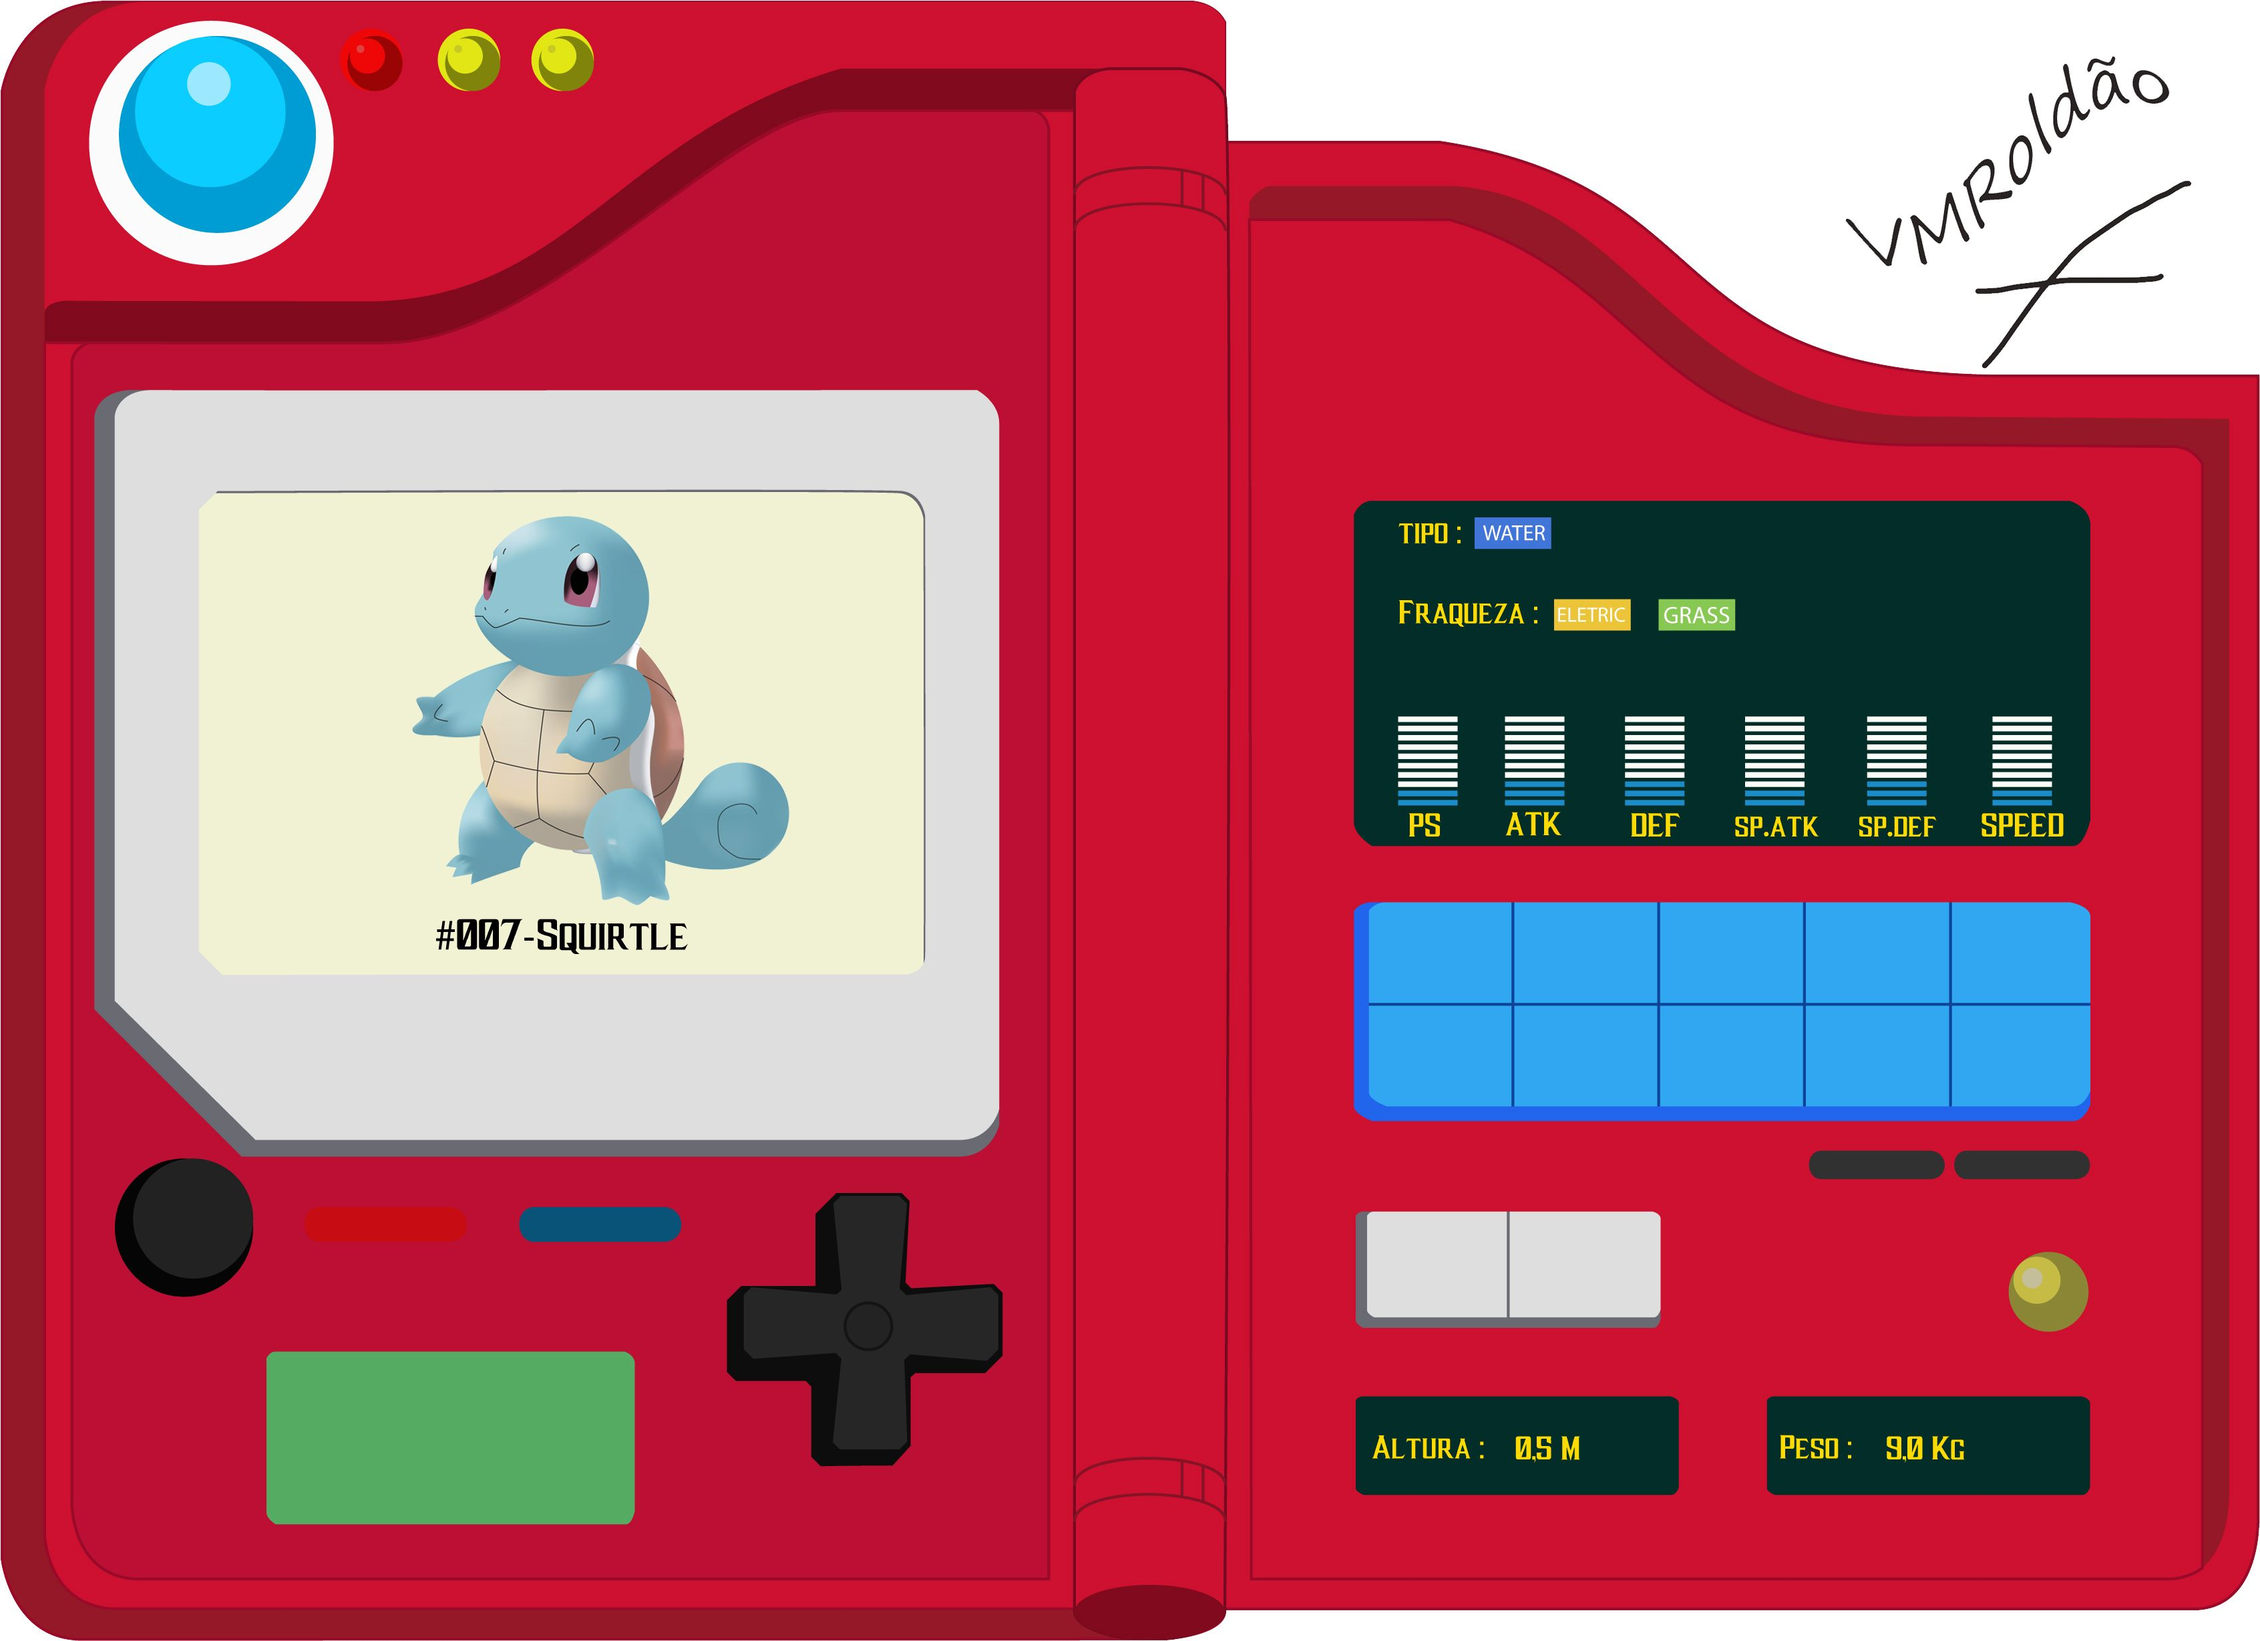
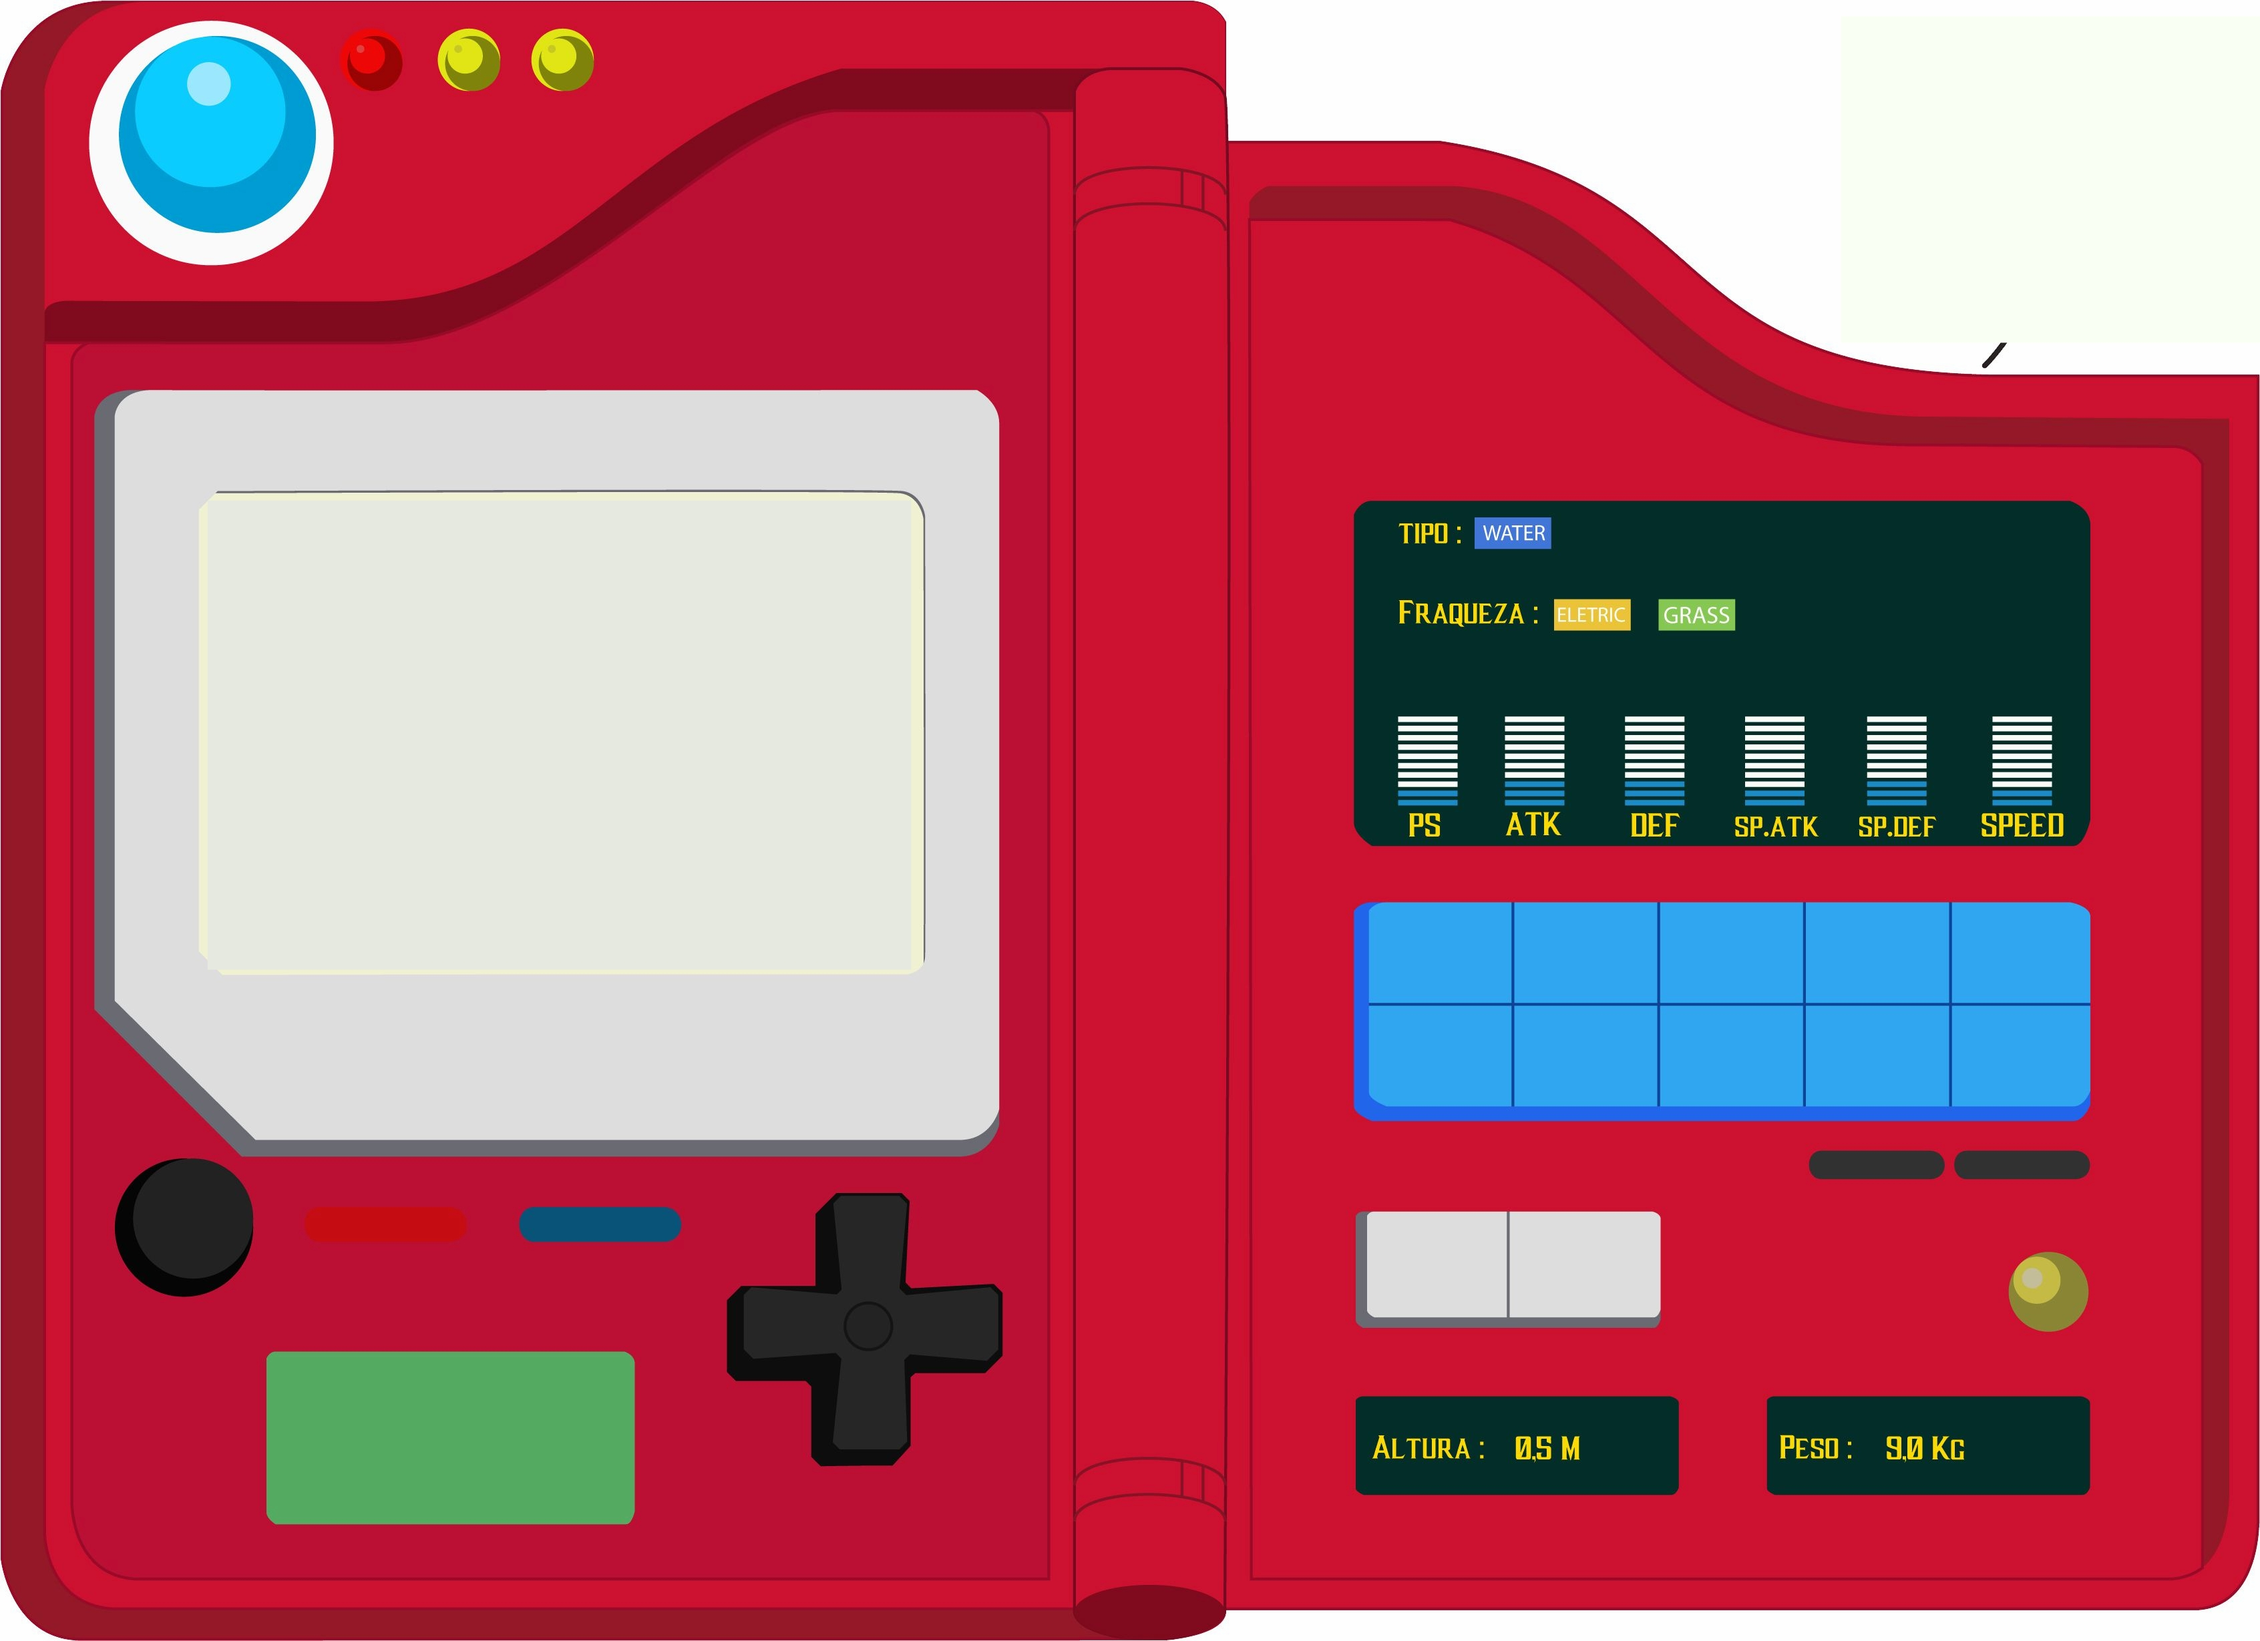
modificacion: ajustes en js y css add: etiquetas para tipo, nombre, id

diff --git a/assets/css/estilospokedex.css b/assets/css/estilospokedex.css
@@ -1,11 +1,87 @@
+.contenedor-pokedex {
+  display: flex;
+  justify-content: center;
+  align-items: center;
+}
+.pokedex img {
+  width: 50%;
+}
+
 .column {
   display: flex;
   flex-direction: column;
   justify-content: center;
-  align-items: center;
-  width: 500px;
-  height: 300px;
+  width: 30%;
 }
 #pokeImg {
-  width: 200px;
+  position: relative;
+  right: 42vw;
+  bottom: 15vw;
+  width: 11vw;
+}
+.pokemon-nombre {
+  background-color: honeydew;
+  font-family: "Lucida Sans", "Lucida Sans Regular", "Lucida Grande",
+    "Lucida Sans Unicode", Geneva, Verdana, sans-serif;
+  font-weight: 700;
+  border-radius: 2px;
+  position: relative;
+  right: 62vw;
+  top: -12vw;
+  width: 19vw;
+  height: 3vw;
+}
+
+.pokemon-id {
+  background-color: honeydew;
+  font-family: "Lucida Sans", "Lucida Sans Regular", "Lucida Grande",
+    "Lucida Sans Unicode", Geneva, Verdana, sans-serif;
+  font-weight: 700;
+  border-radius: 2px;
+  position: relative;
+  right: 61vw;
+  top: -12vw;
+  width: 19vw;
+  height: 3vw;
+}
+.pokemon-tipo {
+  background-color: honeydew;
+  font-family: "Lucida Sans", "Lucida Sans Regular", "Lucida Grande",
+    "Lucida Sans Unicode", Geneva, Verdana, sans-serif;
+  font-weight: 700;
+  border-radius: 4px;
+  position: relative;
+  right: 48vw;
+  top: -22vw;
+}
+.pokemon-tipo-2 {
+  background-color: honeydew;
+  font-family: "Lucida Sans", "Lucida Sans Regular", "Lucida Grande",
+    "Lucida Sans Unicode", Geneva, Verdana, sans-serif;
+  font-weight: 700;
+  border-radius: 4px;
+  position: relative;
+  right: 48vw;
+  top: -22vw;
+}
+
+#pokeName {
+  background-color: #e63946;
+  color: white;
+  border-radius: 4px;
+  position: relative;
+  right: 55vw;
+  top: -4vw;
+  width: 8vw;
+  height: 3vw;
+}
+#boton {
+  background-color: honeydew;
+  border-radius: 8px;
+  padding: 1vw;
+  text-transform: uppercase;
+  position: relative;
+  right: 54vw;
+  top: -8vw;
+  width: 7vw;
 }

diff --git a/index.html b/index.html
@@ -4,22 +4,28 @@
     <meta charset="UTF-8" />
     <meta http-equiv="X-UA-Compatible" content="IE=edge" />
     <meta name="viewport" content="width=device-width, initial-scale=1.0" />
-    <link rel="shortcut icon" href="assets/images/favicon.ico" type="image/x-icon" />
+    <link
+      rel="shortcut icon"
+      href="./assets/images/favicon.ico"
+      type="image/x-icon"
+    />
     <link rel="stylesheet" href="./assets/css/estilospokedex.css" />
     <title>Pokedex API LaunchX</title>
   </head>
   <body>
     <h1>Pokedex API</h1>
-    <section class="column">
-      <input
-        type="text"
-        name="pokemonName"
-        id="pokeName"
-        placeholder="Nombre de un pokémon"
-      />
-      <img src="./assets/images/Pokeball.png" alt="imagen pokeball" id="pokeImg" />
-      <button onclick="pokeFetch()">Bring that Pokémon</button>
-    </section>
+    <div class="contenedor-pokedex">
+      <section class="pokedex">
+        <img src="./assets/images/pokedex.jpg" alt="imagen pokedex" />
+        <img src="./assets/images/Pokeball.png" alt="imagen pokeball" id="pokeImg" />
+        <input type="text" name="pokemonName" id="pokeName" placeholder="Nombre" />
+        <span class="pokemon-nombre"> Nombre</span>
+        <span class="pokemon-id"> Id</span>
+        <span class="pokemon-tipo"> Tipo</span>
+        <span class="pokemon-tipo-2"> Tipo</span>
+        <button onclick="pokeFetch()" id="boton">data</button>
+      </section>
+    </div>
 
     <script src="./assets/js/pokedex.js"></script>
   </body>

diff --git a/assets/js/pokedex.js b/assets/js/pokedex.js
@@ -2,6 +2,11 @@ const pokeFetch = () => {
   const pokeName = document.getElementById("pokeName");
   let input = pokeName.value.toLowerCase();
 
+  const pokeNombre = document.querySelector(".pokemon-nombre");
+  const pokeId = document.querySelector(".pokemon-id");
+  const pokeTipo = document.querySelector(".pokemon-tipo");
+  const pokeTipo2 = document.querySelector(".pokemon-tipo-2");
+
   const url = `https://pokeapi.co/api/v2/pokemon/${input}`;
   //const url = `https://pokeapi.co/api/v2/pokemon/${Math.floor(Math.random() * 300)}`;
   fetch(url)
@@ -18,6 +23,14 @@ const pokeFetch = () => {
       let pokeImage = data.sprites.other.home.front_default;
       console.log(pokeImage);
       imagenPokemon(pokeImage);
+      pokeNombre.textContent = data.name;
+      pokeId.textContent = data.id;
+      pokeTipo.textContent = data.types[0].type.name;
+      if (data.types[1] != undefined) {
+        pokeTipo2.textContent = data.types[1].type.name;
+      } else {
+        pokeTipo2.textContent = " - ";
+      }
     });
 };
 
@@ -26,6 +39,7 @@ pokeFetch();
 const imagenPokemon = (url) => {
   const pokeImg = document.getElementById("pokeImg");
   pokeImg.src = url;
+  const color = "#00121901";
 };
 
 // const mostrarPokemon = () => {
